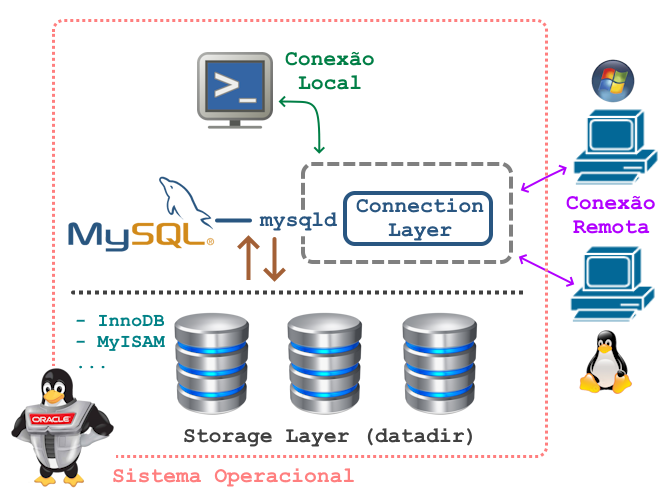
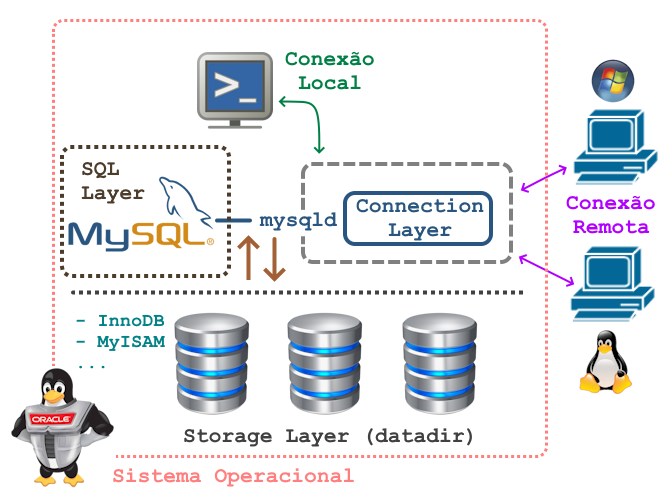
Escrevendo a documentação

Changed region(s): [[0.0905, 0.2749, 0.3318, 0.5804], [0.3318, 0.3055, 0.362, 0.5499]]

diff --git a/mysql-architecture.md b/mysql-architecture.md
@@ -1,0 +1,74 @@
+# 2. Arquitetura
+
+## 2.1 - Visão geral da Arquitetura do MySQL
+
+A arquitetura básica do MySQL é apresentada na figura abaixo:
+
+![alt_text](/imgs/mysql-arch-1.png "Arquitetura - 1")
+
+### [mysqld](https://dev.mysql.com/doc/refman/8.0/en/mysqld.html)
+
+Independente do sistema operacional onde o MySQL foi instalado, o processo principal é o _[mysqld](https://dev.mysql.com/doc/refman/8.0/en/mysqld.html)_. O _[mysqld](https://dev.mysql.com/doc/refman/8.0/en/mysqld.html)_ é o servidor MySQL.
+
+_[mysqld](https://dev.mysql.com/doc/refman/8.0/en/mysqld.html)_ é executado como um único processo _([daemon](https://pt.wikipedia.org/wiki/Daemon_(computa%C3%A7%C3%A3o)))_ que consegue lidar com múltiplas conexões _([multithreaded](https://en.wikipedia.org/wiki/Multithreading_(computer_architecture)))_, além de ser capaz de gerenciar a sua memória e o acesso aos bancos de dados armazenados em disco. 
+
+Ele possui um conjunto de _[variáveis de sistema (Server System Variables)](https://dev.mysql.com/doc/refman/8.0/en/server-system-variable-reference.html)_ que podem ser alteradas para modificar a sua operação. Algumas variáveis devem ser definidas antes do processo iniciar e outras podem ser alteradas em _tempo de execução (runtime)_. Além disso, há outras _[variáveis de status (Server Status Variables)](https://dev.mysql.com/doc/refman/8.0/en/server-status-variable-reference.html)_ que fornecem informações sobre o seu funcionamento. 
+
+Para se obter o valor padrão das variáveis de sistema utilizados pelo servidor, execute o comando abaixo:
+
+```
+[root@orl8 mysql]# bin/mysqld --verbose --help
+```
+
+ou
+
+```
+mysql> SHOW VARIABLES;
+
+[root@orl8 mysql]# bin/mysqladmin variables -u root -p
+```
+
+Para visualizar dados estatísticos e status do servidor em execução:
+
+```
+mysql> SHOW STATUS;
+
+[root@orl8 mysql]# bin/mysqladmin extended-status -u root -p
+```
+
+Informações de _status_ para todas as conexões ativas ao MySQL, podem ser obtidas através da palavra-chave _GLOBAL_:
+
+```
+mysql> SHOW GLOBAL STATUS;
+```
+
+Para se obter tais informações somente da sessão corrente, utilize a palavra-chave _SESSION_:
+
+```
+mysql> SHOW SESSION STATUS;
+```
+
+Múltiplas instâncias do processo _[mysqld](https://dev.mysql.com/doc/refman/8.0/en/mysqld.html)_ podem ser executadas dentro de um único sistema operacional sendo que cada uma irá cuidar das suas conexões de rede e, gerenciar o seu próprio _[diretório de dados (datadir)](https://dev.mysql.com/doc/refman/8.0/en/data-directory.html)_.
+
+![alt_text](/imgs/mysql-arch-2.png "Arquitetura - 2")
+
+De um modo geral, é possível dividir o funcionamento do _[mysqld](https://dev.mysql.com/doc/refman/8.0/en/mysqld.html)_ em três diferentes camadas:
+
+- Connection Layer
+- SQL Layer
+- Storage Layer
+
+![alt_text](/imgs/mysql-arch-3.png "Arquitetura - 3")
+
+### Connection Layer
+
+Programas clientes instalados localmente no servidor ou, em máquinas remotas da rede, se conectam ao processo _[mysqld](https://dev.mysql.com/doc/refman/8.0/en/mysqld.html)_ passando pela **_Connection Layer_**.
+
+>_**__NOTA:__** Aqui, um "programa cliente" pode ser um cliente mysql especializado em manipular e recuperar dados, quanto um programa administrativo para realizar qualquer tipo de manutenção no servidor MySQL._
+
+### SQL Layer
+
+### Storage Layer
+
+O **_Storage Layer_** suporta diferentes _storage engines_ como o _[InnoDB](https://pt.wikipedia.org/wiki/InnoDB)_ ou _[MyISAM](https://pt.wikipedia.org/wiki/MyISAM)_, sendo estes os mais utilizados.
+

diff --git a/configure-client-connections-to-the-server.md b/configure-client-connections-to-the-server.md
@@ -1,21 +1,11 @@
 # 2. Arquitetura
 
-## 2.1 - Configurar conexões cliente ao servidor
+## 2.2 - Configurar conexões cliente ao servidor
 
-A arquitetura básica do MySQL é apresentada na figura abaixo:
+### Protocolos de Conexão
 
-![alt_text](/imgs/mysql-arch-1.png "Arquitetura - 1")
+### SSL
 
-Independente do sistema operacional onde o MySQL foi instalado, o principal é a execução do processo _[mysqld](https://dev.mysql.com/doc/refman/8.0/en/mysqld.html)_.
+### Connection Threads
 
-[mysqld](https://dev.mysql.com/doc/refman/8.0/en/mysqld.html) é executado como um único processo _([daemon](https://pt.wikipedia.org/wiki/Daemon_(computa%C3%A7%C3%A3o)))_ que consegue lidar com múltiplas conexões _([multithreaded](https://en.wikipedia.org/wiki/Multithreading_(computer_architecture)))_, além de ser capaz de gerenciar a sua memória e o acesso aos bancos de dados armazenados em disco.
-
-Programas clientes instalados localmente no servidor ou, em máquinas remotas da rede, se conectam ao processo _[mysqld](https://dev.mysql.com/doc/refman/8.0/en/mysqld.html)_ passando pela **_Connection Layer_** que manipulam os dados.
-
->_**__NOTA:__** Aqui, um "programa cliente" pode ser um cliente mysql especializado em manipular ou recuperar dados, quanto um programa administrativo para realizar qualquer tipo de manutenção no servidor MySQL._
-
-O **_Storage Layer_** suporta diferentes _storage engines_ como o _[InnoDB](https://pt.wikipedia.org/wiki/InnoDB)_ ou _[MyISAM](https://pt.wikipedia.org/wiki/MyISAM)_, sendo estes os mais utilizados.
-
-Múltiplas instâncias do processo _[mysqld](https://dev.mysql.com/doc/refman/8.0/en/mysqld.html)_ podem ser executadas dentro de um único sistema operacional sendo que cada uma irá cuidar das suas conexões de rede e, gerenciar o seu próprio _[diretório de dados (datadir)](https://dev.mysql.com/doc/refman/8.0/en/data-directory.html)_.
-
-![alt_text](/imgs/mysql-arch-2.png "Arquitetura - 2")
+#### Thread Pool plugin

diff --git a/README.md b/README.md
@@ -20,12 +20,14 @@
 
 ### 2. Arquitetura
 
-2.1 - [Configurar conexões cliente ao servidor](/configure-client-connections-to-the-server.md)
+2.1 - [Visão geral da Arquitetura do MySQL](/mysql-architecture.md)
 <br/>
-2.2 - [Entender como o MySQL armazena dados](/understand-how-mysql-stores-data.md)
+2.2 - [Configurar conexões cliente ao servidor](/configure-client-connections-to-the-server.md)
 <br/>
-2.3 - [Entender como o InnoDB armazena dados e logs](/understand-how-innodb-stores-data-and-logs.md)
+2.3 - [Entender como o MySQL armazena dados](/understand-how-mysql-stores-data.md)
 <br/>
-2.4 - [Configurar buffers e caches](/configure-buffers-and-caches.md)
+2.4 - [Entender como o InnoDB armazena dados e logs](/understand-how-innodb-stores-data-and-logs.md)
 <br/>
-2.5 - [Entender e utilizar o Dicionário de Dados (datadir)](/understand-and-use-the-data-dictionary.md)
+2.5 - [Configurar buffers e caches](/configure-buffers-and-caches.md)
+<br/>
+2.6 - [Entender e utilizar o Dicionário de Dados (datadir)](/understand-and-use-the-data-dictionary.md)
